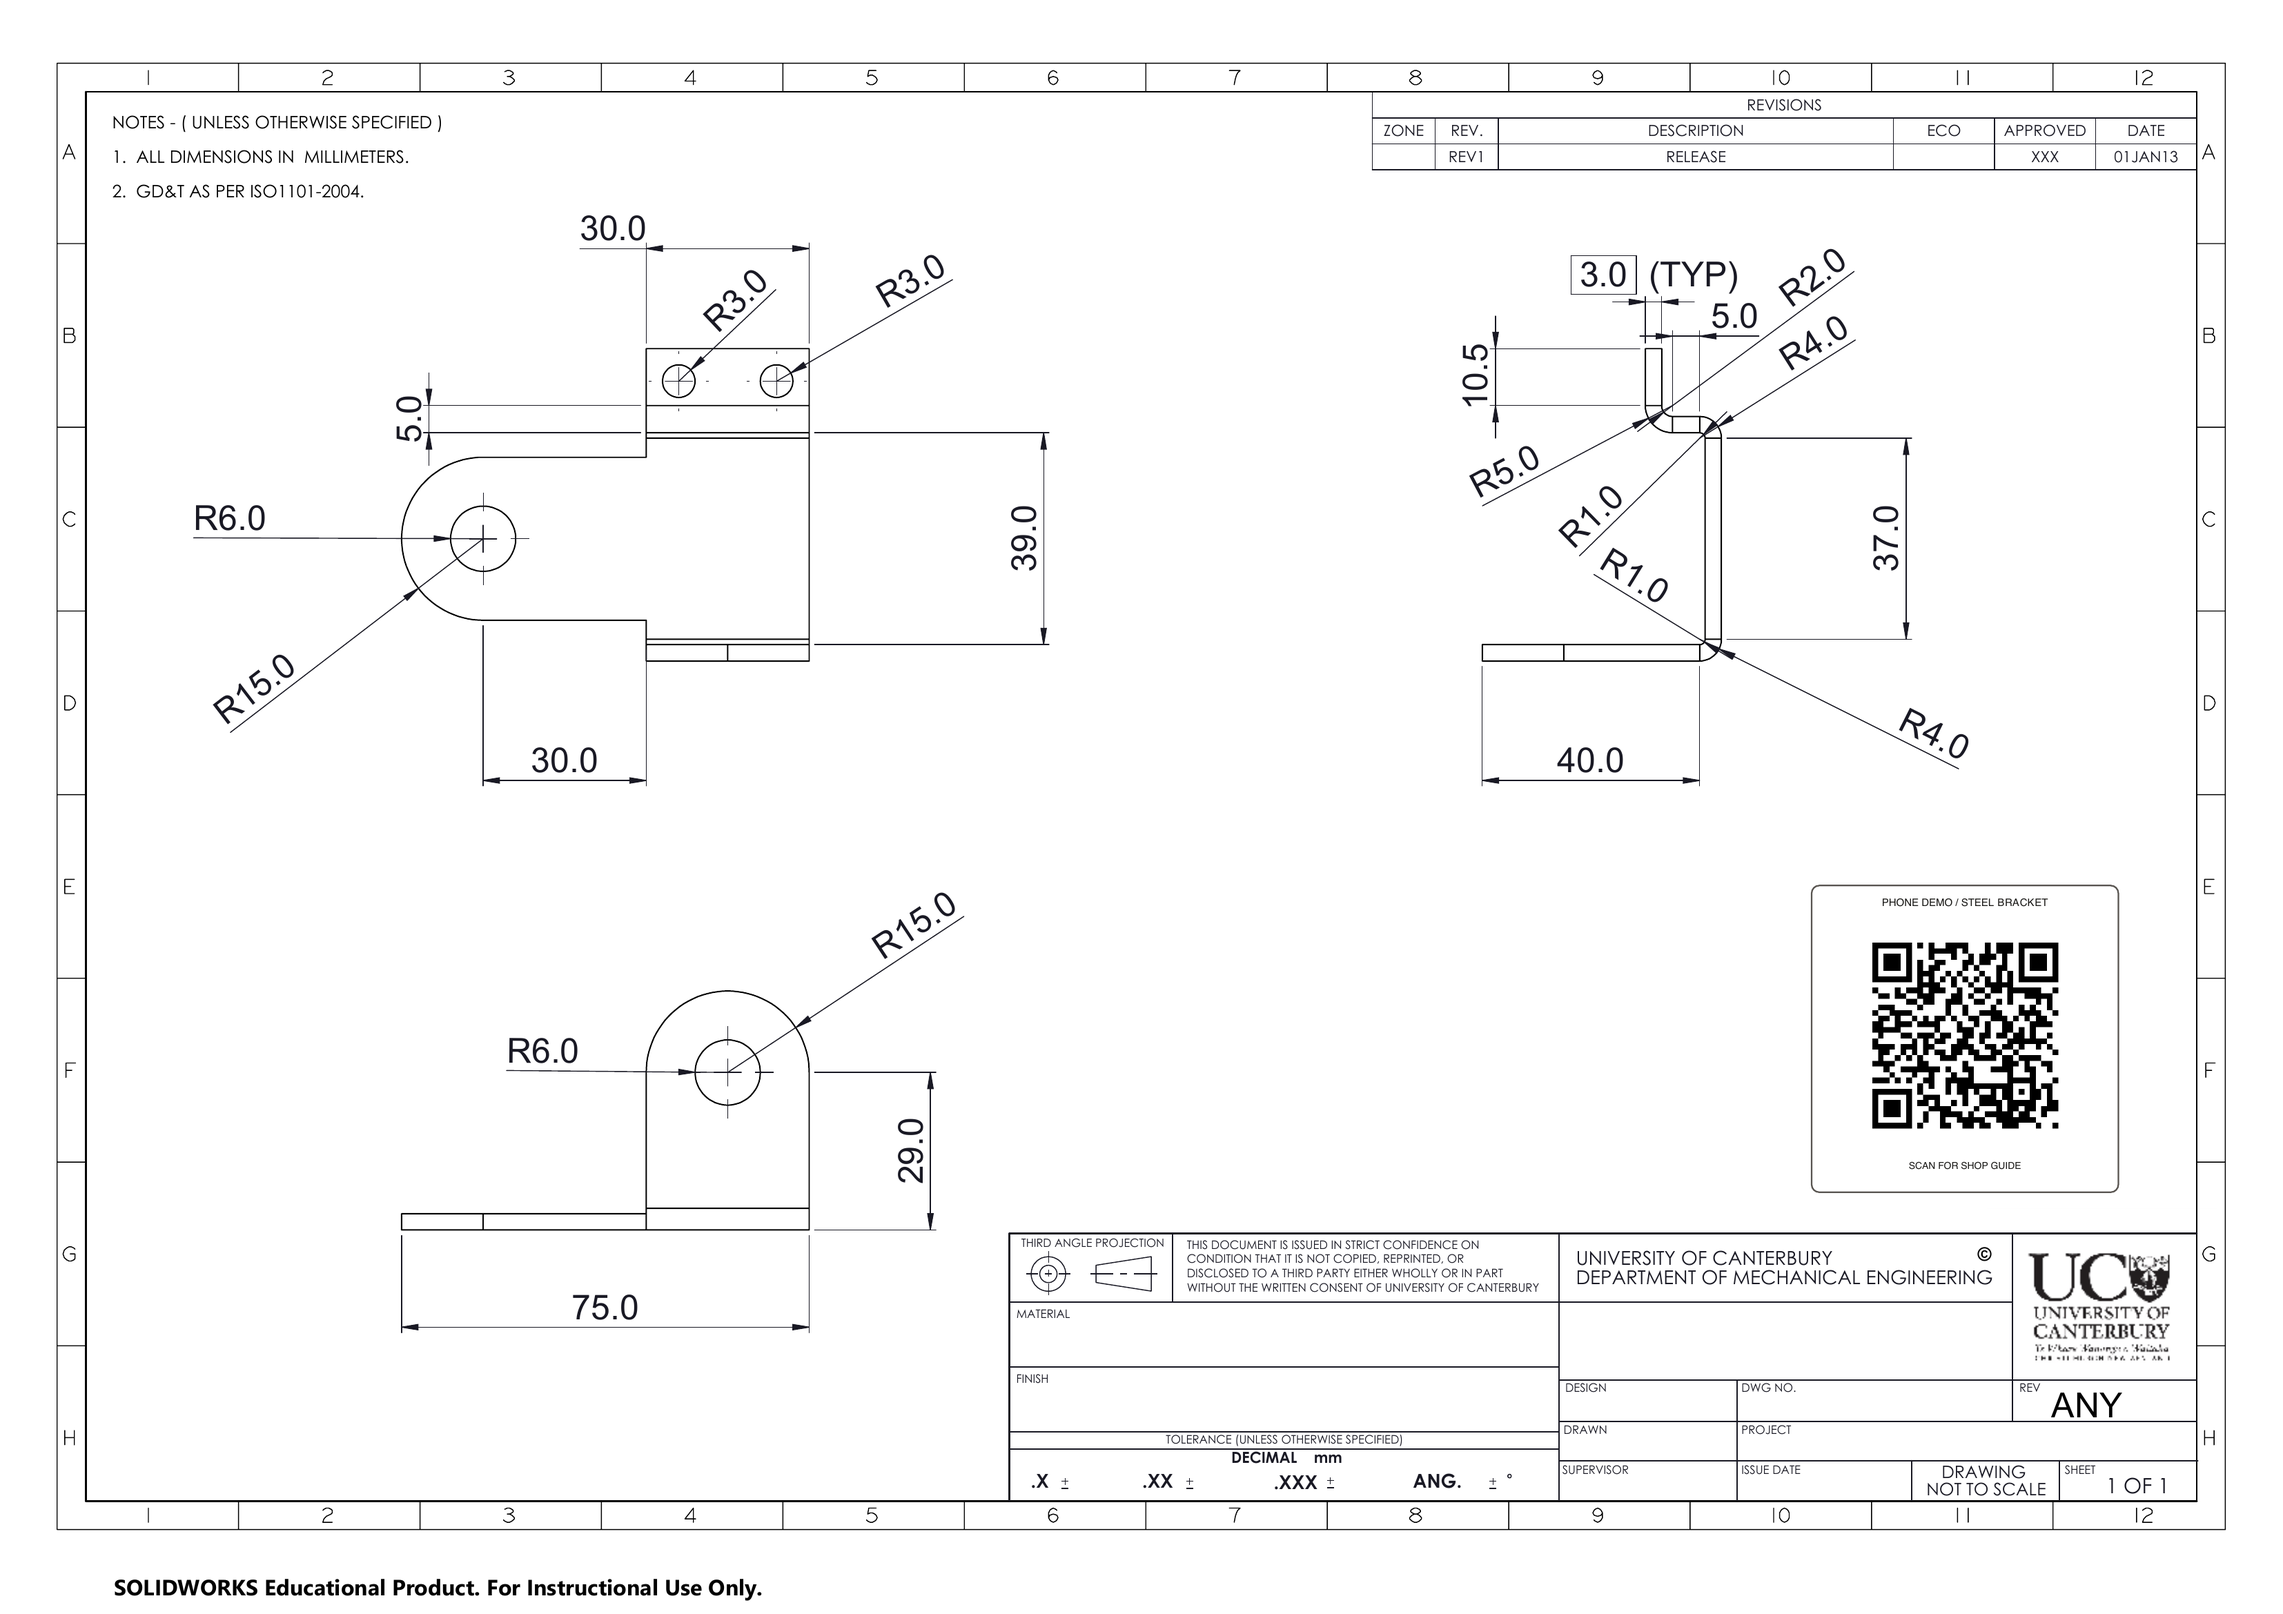
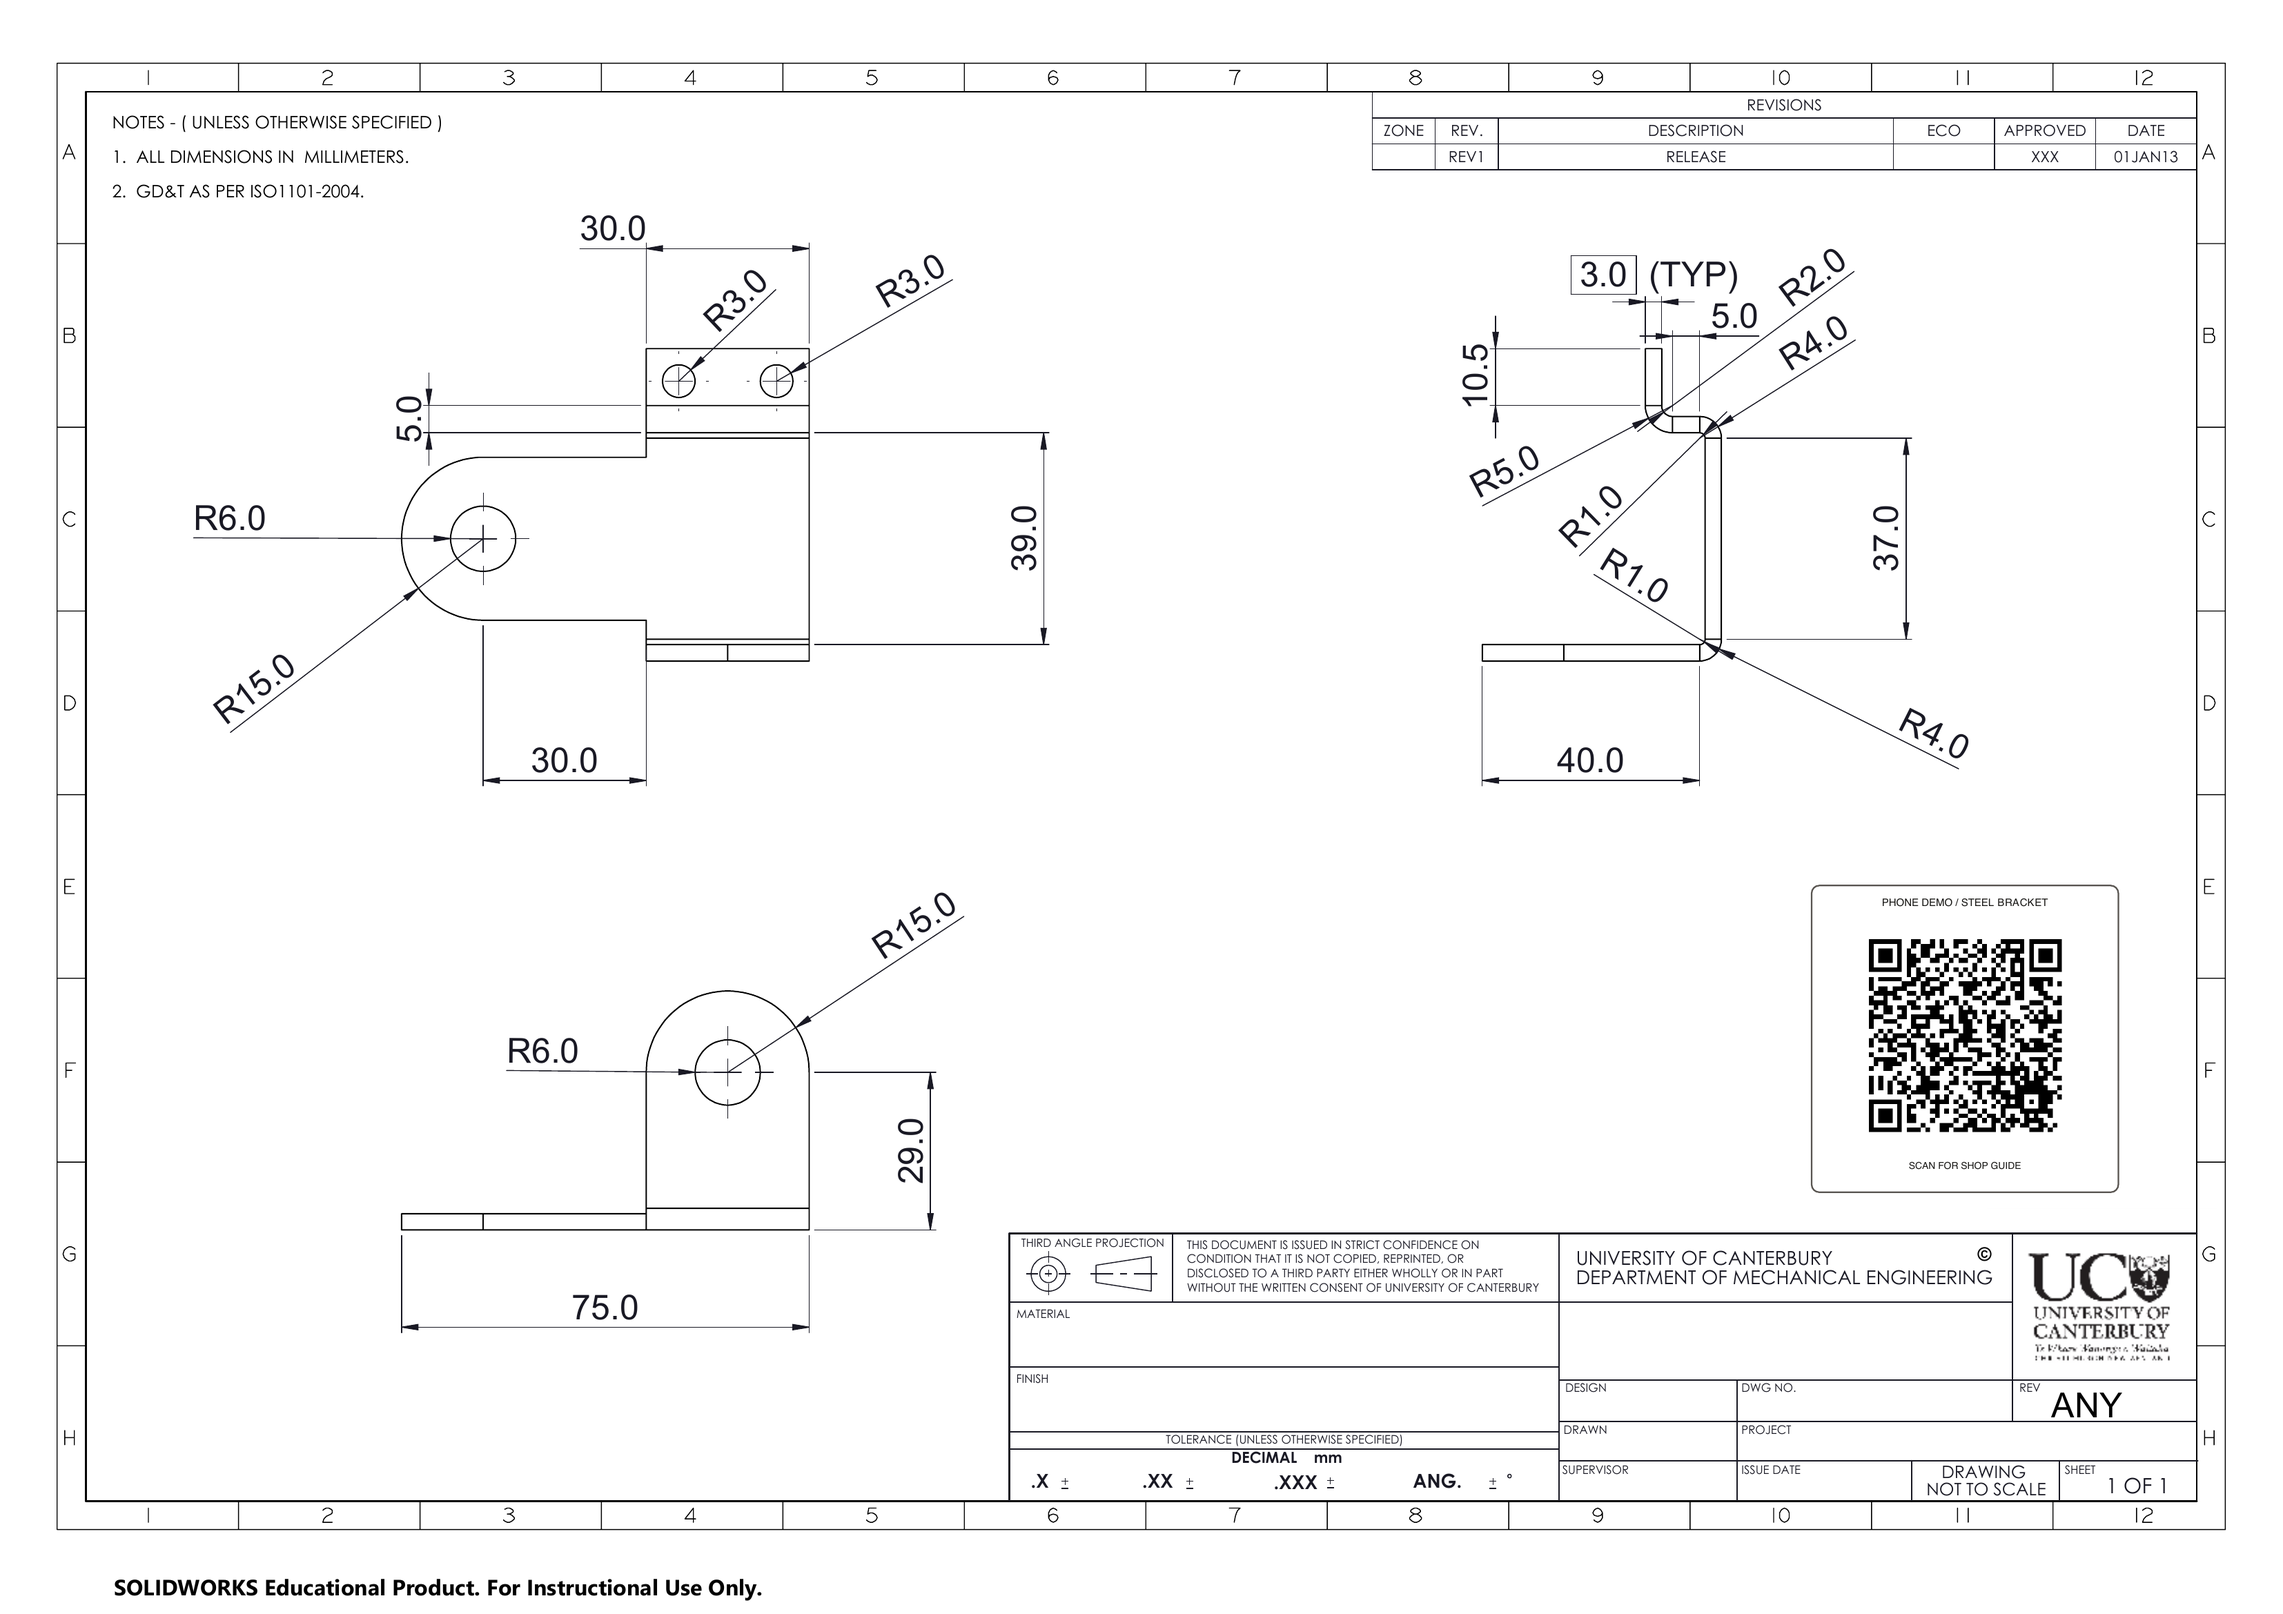
feat: publish Cloudflare QR demo link

Changed region(s): [[0.8096, 0.5618, 0.903, 0.7178]]

diff --git a/src/features/prepared-demo/public-workspaces.tsx b/src/features/prepared-demo/public-workspaces.tsx
@@ -104,7 +104,7 @@ export function PreparedPartDetail({ part }: { part: PreparedPart }) {
         </div>
         <div className={styles.qrReadout}>
           <Image src={part.qrCodeImage} alt={`QR code that opens the Steel Bracket shop view`} width={120} height={120} />
-          <div><strong>Phone demo QR</strong><span>Connect the phone to the same Wi-Fi, then scan the QR sticker to open the interactive shop view.</span><a href={part.qrTarget}>{part.qrTarget}<span aria-hidden="true"> ↗</span></a></div>
+          <div><strong>Phone demo QR</strong><span>Scan the QR sticker from any phone connection to open the interactive shop view.</span><a href={part.qrTarget}>{part.qrTarget}<span aria-hidden="true"> ↗</span></a></div>
         </div>
         <p>Original local source files remain available beside the QR-enabled demo copy. The STL is a visual reference; the demo guide is available in the interactive shop view.</p>
       </section>

diff --git a/src/features/prepared-demo/public-data.ts b/src/features/prepared-demo/public-data.ts
@@ -52,7 +52,7 @@ export const preparedParts: PreparedPart[] = [
     drawingPreview: "/chappe-demo/steel-bracket-qr-drawing-preview.png",
     drawingAlt: "Steel Bracket demo drawing with a Chappe QR code in the right-side drawing margin",
     qrCodeImage: "/chappe-demo/steel-bracket-qr.png",
-    qrTarget: "http://10.196.209.152:3312/parts/manufacturing-test-sheet",
+    qrTarget: "https://partial-mins-temperatures-gap.trycloudflare.com/parts/manufacturing-test-sheet",
     modelStl: "/chappe-demo/manufacturing-test-sheet.stl",
     modelFileName: "Steel Bracket source STL",
     state: "Revision needs review",
